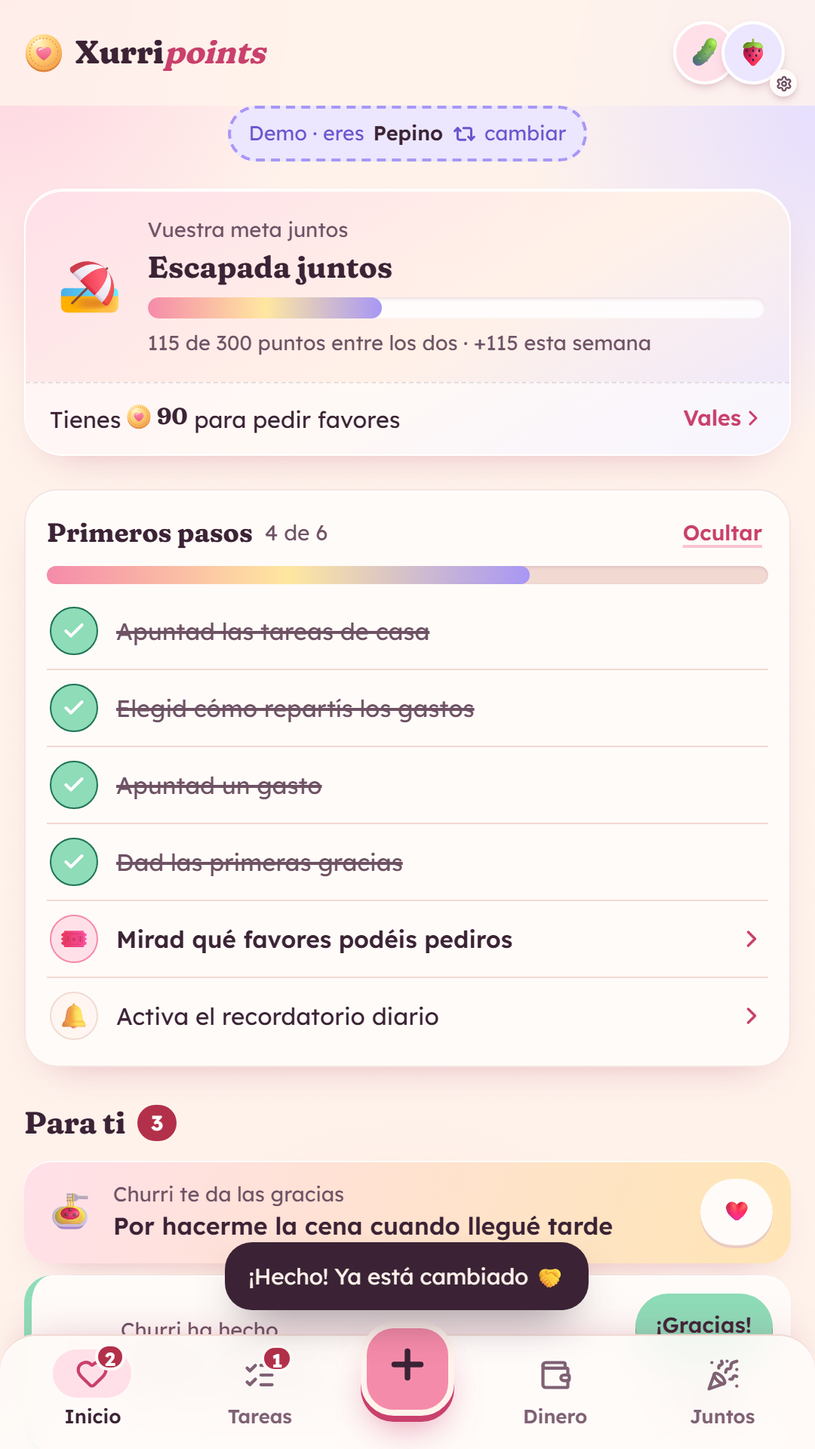
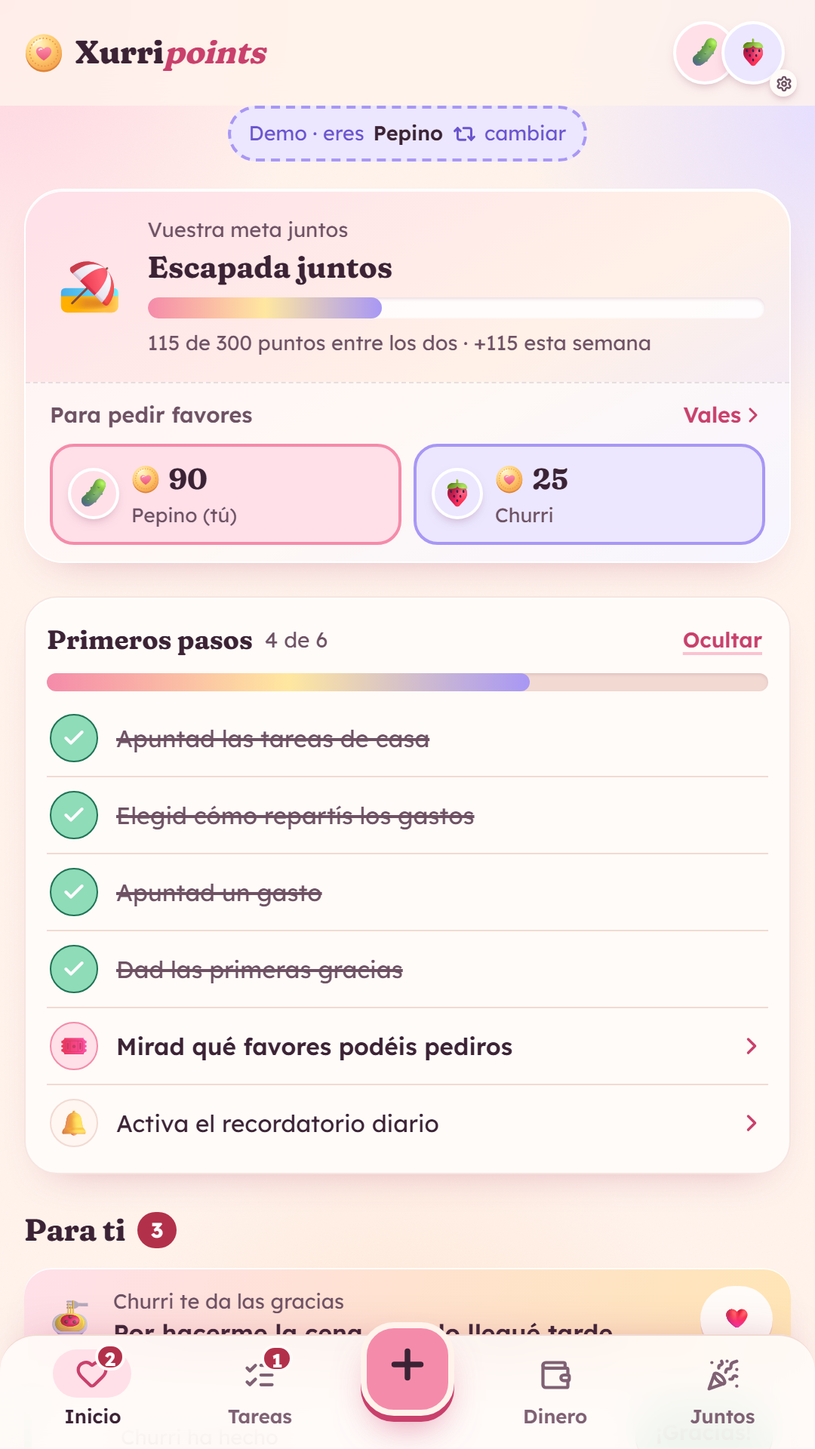
v0.16.0: version web para iPhone (misma app en Safari) y capturas de Play al dia

Changed region(s): [[0.0306, 0.2812, 0.9778, 0.9375]]

diff --git a/app/app.js b/app/app.js
@@ -9,7 +9,7 @@ import { THIS_OR_THAT, WHO_MORE, DIE_PIPS, THIS_OR_THAT_PLUS, WHO_MORE_PLUS, QUE
 import { CHANNEL } from './channel.js';
 import { iconoSvg } from './icons.js';
 
-const VERSION = '0.15.1';
+const VERSION = '0.16.0';
 const REPO = 'pepino17/xurripoints';
 /** Enlace permanente: siempre descarga el último APK publicado en GitHub Releases. */
 const APK_URL = `https://github.com/${REPO}/releases/latest/download/Xurripoints.apk`;
@@ -869,7 +869,8 @@ const STEP_INFO = {
 };
 function stepsCard() {
   if (lsGet('xp_steps_off')) return '';
-  const steps = L.firstSteps(S.data, ME(), { points: !noPoints(), notify: notifyHour() != null, sawVales: !!lsGet('xp_saw_vales') });
+  const steps = L.firstSteps(S.data, ME(), { points: !noPoints(), notify: notifyHour() != null, sawVales: !!lsGet('xp_saw_vales') })
+    .filter(s => s.id !== 'notify' || isNative());   // en la web no hay recordatorio (sin notificaciones locales)
   const done = steps.filter(s => s.done).length;
   if (done === steps.length) return '';
   const next = steps.find(s => !s.done);
@@ -1310,13 +1311,13 @@ function viewCouple() {
 
     <h2 class="h sm set-h">App</h2>
     <section class="card list">
-      ${row('notify-sheet', '🔔', 'Recordatorio diario', notifyHour() != null ? `Activado · a las ${notifyHour()}:00` : 'Desactivado')}
+      ${isNative() ? row('notify-sheet', '🔔', 'Recordatorio diario', notifyHour() != null ? `Activado · a las ${notifyHour()}:00` : 'Desactivado') : ''}
       ${row('theme-sheet', (THEMES.find(x => x[0] === curTheme()) || THEMES[0])[1], `Colores de la app ${plusTag()}`, `Fresa, Neutro y Oscuro gratis${isPlus() ? '' : ' · los otros 4 con Plus'}`)}
       <div class="set-row font-row"><span class="sr-ic">🔠</span><span class="sr-body"><b>Tamaño de letra</b><small>${(FONTS.find(x => x[0] === curFont()) || FONTS[0])[1]} · solo en este móvil</small></span>
         <span class="seg font-seg">${FONTS.map(([k, n, fs]) => `<button class="${k === curFont() ? 'on' : ''}" data-act="font-set" data-v="${k}" aria-label="Letra ${n.toLowerCase()}" aria-pressed="${k === curFont()}"><span style="font-size:${fs}">Aa</span></button>`).join('')}</span></div>
       ${row('share-app', '📲', 'Recomendar a otros', 'Envía el enlace de la app por WhatsApp', '', ic('share-2'))}
       ${row('legal-sheet', '🔒', 'Privacidad y condiciones', 'Qué datos se guardan y para qué')}
-      ${FROM_PLAY ? `<div class="set-row"><span class="sr-ic">✨</span><span class="sr-body"><b>Versión ${VERSION}</b><small>Se actualiza desde Google Play</small></span></div>`
+      ${FROM_PLAY || !isNative() ? `<div class="set-row"><span class="sr-ic">✨</span><span class="sr-body"><b>Versión ${VERSION}</b><small>${FROM_PLAY ? 'Se actualiza desde Google Play' : 'Estás en la versión web: siempre la última'}</small></span></div>`
         : row('check-update', '✨', `Versión ${VERSION}`, S.update && L.isNewer(S.update, VERSION) ? `Hay una nueva: ${esc(S.update)} · toca para descargarla` : 'Toca para buscar actualizaciones', '', ic('refresh-cw'))}
     </section>
 
@@ -1775,14 +1776,14 @@ function recurringSection() {
 
 /* ---------------- Actualizaciones (GitHub Releases) ---------------- */
 function updateBanner() {
-  if (FROM_PLAY || !S.update || !L.isNewer(S.update, VERSION)) return '';
+  if (FROM_PLAY || !isNative() || !S.update || !L.isNewer(S.update, VERSION)) return '';
   return `<button class="update-bar" data-act="open-url" data-url="${APK_URL}">${ic('sparkles')}
     <span><b>Hay una versión nueva (${esc(S.update)})</b><small>Toca para descargarla e instalarla encima</small></span>${ic('download')}</button>`;
 }
-/** Mira la última release publicada (como mucho cada 6 h, salvo que se fuerce). Solo dentro del APK. */
+/** Mira la última release publicada (como mucho cada 6 h, salvo que se fuerce). Solo dentro del APK de GitHub:
+    la web (iPhone) ya es siempre la última y no debe ofrecer un APK. */
 async function checkUpdate(force = false) {
-  if (FROM_PLAY) return null;
-  if (!isNative() && !force) return null;
+  if (FROM_PLAY || !isNative()) return null;
   if (!force && Date.now() - Number(lsGet('xp_upd_at') || 0) < 6 * 3600e3) { S.update = lsGet('xp_upd_v'); return S.update; }
   try {
     const r = await fetch(`https://api.github.com/repos/${REPO}/releases/latest`, { headers: { Accept: 'application/vnd.github+json' } });
@@ -3464,7 +3465,6 @@ function notifySheet() {
     <p class="muted">Un aviso al día con <b>lo que os toca</b> y lo que <b>espera tu respuesta</b>. Solo si hay algo: si no, no molesta.</p>
     <div class="field"><span>¿A qué hora?</span>
       <div class="chips" id="nt-hour">${[9, 14, 19, 20, 21, 22].map(x => `<button type="button" class="chip ${(h ?? 20) === x ? 'on' : ''}" data-act="pick" data-v="${x}">${x}:00</button>`).join('')}</div></div>
-    ${isNative() ? '' : `<p class="warn">Los avisos funcionan en la app de Android (aquí, en el navegador, no suenan).</p>`}
     <p class="muted small">Sin servidor: el móvil programa los avisos de los próximos días cada vez que abres la app.</p>
     <div class="stack"><button class="btn primary big" data-act="notify-save">${h != null ? 'Guardar' : 'Activar'}</button>
       ${h != null ? `<button class="btn" data-act="notify-off">Desactivar</button>` : ''}</div>`;

diff --git a/app/styles.css b/app/styles.css
@@ -37,6 +37,7 @@ html { -webkit-text-size-adjust: 100%; }
 body {
   margin: 0;
   min-height: 100vh;
+  min-height: 100dvh;                  /* Safari de iPhone: 100vh cuenta la barra de abajo escondida y sobra scroll */
   font: 400 1rem/1.45 var(--body);   /* en rem: así «Tamaño de letra» (data-font en el html) lo escala todo */
   color: var(--ink);
   background: var(--bg);
@@ -207,6 +208,7 @@ input[type="range"] { width: 100%; accent-color: var(--a-deep); height: 32px; }
   position: sticky; top: 0; z-index: 20;
   display: flex; align-items: center; justify-content: space-between;
   padding: calc(10px + var(--safe-t)) 16px 10px;
+  background: var(--bg);   /* iPhone con iOS < 16.2 (sin color-mix): opaco, para que no se transparente */
   background: color-mix(in srgb, var(--bg) 82%, transparent);
   backdrop-filter: blur(12px); -webkit-backdrop-filter: blur(12px);
 }
@@ -230,6 +232,7 @@ input[type="range"] { width: 100%; accent-color: var(--a-deep); height: 32px; }
   position: fixed; left: 0; right: 0; bottom: 0; z-index: 30;
   display: flex; justify-content: space-around; align-items: stretch;
   padding: 6px 6px calc(8px + var(--safe-b));
+  background: var(--card);   /* igual que .top: sin color-mix, opaco */
   background: color-mix(in srgb, var(--card) 88%, transparent);
   backdrop-filter: blur(14px); -webkit-backdrop-filter: blur(14px);
   border-top: 1.5px solid var(--line);
@@ -479,7 +482,7 @@ button.set-row { cursor: pointer; }
 .set-row > .lucide { color: var(--ink-3); }
 
 /* ---------------- Entrar / emparejar ---------------- */
-.auth { min-height: 100vh; max-width: 460px; margin: 0 auto; padding: calc(28px + var(--safe-t)) 22px calc(28px + var(--safe-b)); display: flex; flex-direction: column; justify-content: center; text-align: center; }
+.auth { min-height: 100vh; min-height: 100dvh; max-width: 460px; margin: 0 auto; padding: calc(28px + var(--safe-t)) 22px calc(28px + var(--safe-b)); display: flex; flex-direction: column; justify-content: center; text-align: center; }
 .auth.form { text-align: left; justify-content: flex-start; padding-top: calc(20px + var(--safe-t)); }
 .auth.form .big-coin { margin: 8px 0 4px; }
 .auth .back { position: absolute; top: calc(14px + var(--safe-t)); left: 14px; }
@@ -503,7 +506,7 @@ button.set-row { cursor: pointer; }
 .orbit span:nth-child(3) { bottom: 0; left: 44%; }
 .orbit span:nth-child(4) { top: 44%; left: -4px; }
 @keyframes orbit { to { transform: rotate(360deg); } }
-.center-screen { min-height: 100vh; display: flex; flex-direction: column; align-items: center; justify-content: center; gap: 6px; }
+.center-screen { min-height: 100vh; min-height: 100dvh; display: flex; flex-direction: column; align-items: center; justify-content: center; gap: 6px; }
 .pair-actions { display: flex; flex-direction: column; gap: 12px; margin-top: 20px; }
 .or { display: flex; align-items: center; gap: 10px; color: var(--ink-3); font-size: .85rem; }
 .or::before, .or::after { content: ''; flex: 1; height: 2px; background: var(--line); border-radius: 2px; }

diff --git a/docs/index.html b/docs/index.html
@@ -26,9 +26,11 @@
           casa —pareja, a distancia, <b>compañeros de piso</b> o familia— y quiere organizarse <b>sin llevar la cuenta</b>.</p>
         <div class="btns">
           <a class="btn primary" href="https://github.com/pepino17/xurripoints/releases/latest/download/Xurripoints.apk">📲 Descargar para Android</a>
+          <a class="btn" href="app/">🍏 Abrir en el navegador (iPhone)</a>
           <a class="btn" href="#empezar">¿Cómo empezar?</a>
         </div>
-        <p class="small">Gratis y sin anuncios · Pronto en Google Play · iPhone: más adelante</p>
+        <p class="small">Gratis y sin anuncios · Pronto en Google Play</p>
+        <p class="small">En iPhone: ábrela en Safari, toca <b>Compartir → Añadir a pantalla de inicio</b> y entra desde ese icono.</p>
       </div>
       <div class="phone" aria-hidden="true">
         <div class="ph-card"><small>Vuestra meta juntos</small><b>🏖 Escapada juntos</b><span class="bar"><i></i></span><small>310 de 500 puntos entre los dos</small></div>
@@ -64,7 +66,7 @@
     <section id="empezar">
       <h2>Cómo empezar</h2>
       <ol class="steps">
-        <li><span>Descarga la app en tu Android (si el móvil lo pide, permite instalar desde el navegador).</span></li>
+        <li><span>Descarga la app en tu Android (si el móvil lo pide, permite instalar desde el navegador) o, en iPhone, <a href="app/">ábrela en Safari</a> y añádela a la pantalla de inicio.</span></li>
         <li><span>Crea tu cuenta, pon tu nombre o mote y crea vuestra pareja.</span></li>
         <li><span>Envía el código de 8 letras a tu pareja: se une desde su móvil y listo 💞</span></li>
       </ol>
@@ -76,7 +78,7 @@
       <div class="plans">
         <div class="plan">
           <h3>Gratis</h3><div class="price">0 €</div>
-          <ul><li>Tareas, gastos, ahorro, gracias, planes y juegos</li><li>Puntos, vales y meta juntos</li><li>Recordatorio diario</li><li>Descargar una copia de vuestros datos</li><li>Sin anuncios, nunca</li></ul>
+          <ul><li>Tareas, gastos, ahorro, gracias, planes y juegos</li><li>Puntos, vales y meta juntos</li><li>Recordatorio diario (en Android)</li><li>Descargar una copia de vuestros datos</li><li>Sin anuncios, nunca</li></ul>
         </div>
         <div class="plan plus">
           <h3>Plus <span class="tag">para los dos</span></h3><div class="price">1,67 €<small class="small"> /mes</small></div>

diff --git a/app/native.js b/app/native.js
@@ -1,6 +1,6 @@
 /* ================================================================
    Xurripoints — capa nativa (Capacitor). SOLO actúa dentro de la app Android;
-   en el navegador no hace nada.
+   en el navegador (versión web) solo se niega a pintarse dentro de un marco ajeno.
    - Barra de estado del color de la app: iconos oscuros, o claros con el tema oscuro.
    - Botón ATRÁS físico: cierra la hoja abierta / vuelve a Inicio; solo desde Inicio sale.
    ================================================================ */
@@ -8,6 +8,9 @@
   'use strict';
   function isNative() { return !!(window.Capacitor && Capacitor.isNativePlatform && Capacitor.isNativePlatform()); }
   function P(name) { return (window.Capacitor && Capacitor.Plugins && Capacitor.Plugins[name]) || null; }
+  // Web: GitHub Pages no deja poner `frame-ancestors` (y en <meta> no vale). Dentro de un <iframe> de otra web,
+  // nada se ve ni se puede tocar: así no pueden engañar con clics encima de la app.
+  if (window.top !== window.self) document.documentElement.hidden = true;
   if (!isNative()) return;
   document.documentElement.classList.add('native');
 

diff --git a/docs/privacidad.html b/docs/privacidad.html
@@ -48,7 +48,7 @@
       <li><b>Google (Firebase / Google Cloud)</b> guarda los datos como encargado del tratamiento, en servidores de la Unión
         Europea. Algunos servicios de Google, como el inicio de sesión, pueden tratar datos fuera de la UE con las garantías
         del Marco de Privacidad de Datos UE-EE. UU. y las cláusulas contractuales tipo.</li>
-      <li><b>GitHub</b> sirve la descarga de la app y la comprobación de versiones nuevas (recibe tu IP, como cualquier web).</li>
+      <li><b>GitHub</b> sirve la descarga de la app, la versión web (para iPhone) y la comprobación de versiones nuevas (recibe tu IP, como cualquier web).</li>
       <li><b>Google Play</b>, si compras Plus, gestiona el pago según su propia política.</li>
       <li><b>Google Calendar</b>, solo si tocas «A mi Google Calendar»: se abre Google Calendar con el nombre y la fecha de
         esa tarea en el enlace, y eres tú quien decide si lo guarda en tu cuenta de Google. La app no se conecta a tu

diff --git a/app/index.html b/app/index.html
@@ -13,6 +13,11 @@
   <title>Xurripoints</title>
   <link rel="icon" href="icon.svg" />
   <link rel="manifest" href="manifest.webmanifest" />
+  <!-- Versión web (iPhone): «Añadir a pantalla de inicio» la abre a pantalla completa. Dentro del APK no hacen nada. -->
+  <link rel="apple-touch-icon" href="apple-touch-icon.png" />
+  <meta name="apple-mobile-web-app-capable" content="yes" />
+  <meta name="mobile-web-app-capable" content="yes" />
+  <meta name="apple-mobile-web-app-status-bar-style" content="default" />
   <!-- Cuando haya Firebase configurado, esto ahorra una ida y vuelta antes del primer dato. -->
   <link rel="preconnect" href="https://firestore.googleapis.com" crossorigin />
   <link rel="preconnect" href="https://identitytoolkit.googleapis.com" crossorigin />

diff --git a/app/store.js b/app/store.js
@@ -56,7 +56,10 @@ async function limpiarIndexedDb({ todo = false } = {}) {
     const nombres = indexedDB.databases
       ? (await indexedDB.databases()).map(d => d.name).filter(Boolean)
       : ['firebaseLocalStorageDb', 'firestore/[DEFAULT]/xurripoints/main'];
+    // En la web, el origen (pepino17.github.io) lo comparten todas las webs de GitHub Pages de la cuenta: solo lo nuestro.
+    const nativo = !!(globalThis.Capacitor && Capacitor.isNativePlatform && Capacitor.isNativePlatform());
     await Promise.all(nombres
+      .filter(n => nativo || /^firebase|xurripoints/.test(n))
       .filter(n => todo || !/firebaseLocalStorageDb/.test(n))
       .map(n => new Promise(res => {
         const r = indexedDB.deleteDatabase(n);

diff --git a/CONTEXTO.md b/CONTEXTO.md
@@ -1,7 +1,7 @@
 # CONTEXTO — léeme primero (handoff completo)
 
 > Con este documento + `COMO_TRABAJAR.md` + `docs/` deberías poder continuar el proyecto sin la conversación.
-> Última actualización: **2026-11-12** (v0.15.1).
+> Última actualización: **2026-11-12** (v0.16.0).
 
 ## Qué es
 **Xurripoints**: app Android para parejas para **organizarse en equipo sin llevar la cuenta**: tareas, gastos
@@ -59,6 +59,17 @@ gasta en **vales = favores** (nunca permisos). Los puntos se pueden pausar.
   - **Google Play**: `.aab` firmado en cada release (canal `'play'`, sin avisos de APK), web con **privacidad, condiciones
     y borrar cuenta**, enlaces legales en la app, **descargar una copia** (JSON, gratis).
   - 26 pruebas de lógica + pruebas de reglas de Plus. Verificado en navegador (demo).
+- **v0.16.0 (2026-11-12)**: **versión web para iPhone**. La misma `app/` en https://pepino17.github.io/xurripoints/app/
+  (Safari → Compartir → «Añadir a pantalla de inicio»), montada por `.github/workflows/pages.yml` (docs/ en la raíz +
+  app/ en `/app/`; en git no se duplica nada). Web = `!Capacitor.isNativePlatform()` (sin canal nuevo; `channel.js`
+  sigue en `'github'`): sin recordatorio diario, sin avisos ni enlaces de APK, «Estás en la versión web» en Pareja → App.
+  Iconos PNG 180/192/512 en `app/` (de `scripts/make-assets.mjs`), metas de Apple, no se deja meter en un `<iframe>`
+  y la limpieza al salir/borrar solo toca las bases de Firebase/Xurripoints (el origen `pepino17.github.io` es compartido).
+  **⚠ PASO PENDIENTE (Joan, en GitHub):** Settings → Pages → Build and deployment → Source: **GitHub Actions**.
+  Hasta entonces Pages sigue publicando `docs/` de `main` como siempre («Deploy from a branch»), `/app/` da 404 y el
+  workflow «Web (GitHub Pages)» sale en rojo al publicar (es lo esperado). Después: Actions → «Web (GitHub Pages)» →
+  Run workflow (o cualquier push que toque `docs/` o `app/`). Mínimo iOS 15.4 (`structuredClone`, `dvh`).
+  En iPhone, la app de la pantalla de inicio guarda aparte de Safari: hay que entrar con la cuenta otra vez.
 - **v0.15.1 (2026-11-12)**: ronda «seguridad sin servidor». **CSP** en `app/index.html` (scripts/estilos/fuentes
   propios, red solo a Firestore, Identity, Secure Token y `api.github.com`; solo se permiten atributos `style="…"`) ·
   **reglas**: crear pareja solo con código de 6 u 8 `[A-Z0-9]` (solo al crear) y topes holgados a textos que se pintan
@@ -120,8 +131,10 @@ gasta en **vales = favores** (nunca permisos). Los puntos se pueden pausar.
   - 31 pruebas de lógica + 4 nuevas de reglas. Verificado en navegador (demo) sin errores de consola.
 - **Descarga (siempre la última):** https://github.com/pepino17/xurripoints/releases/latest/download/Xurripoints.apk
   (botón + QR en el README). Repo **público** para que los testers puedan descargar.
-- **Web:** https://pepino17.github.io/xurripoints/ (GitHub Pages desde `docs/`, sin Jekyll: `.nojekyll`).
-- **Pendiente de Joan:** probar con **los dos móviles** de verdad (crear cuentas, emparejar, salir de la pareja y
+- **Web:** https://pepino17.github.io/xurripoints/ (GitHub Pages desde `docs/`, sin Jekyll: `.nojekyll`). Desde v0.16 la
+  publica `pages.yml` con la app en `/app/` (**versión web para iPhone**), en cuanto Pages esté en «GitHub Actions».
+- **Pendiente de Joan:** **Settings → Pages → Source: GitHub Actions** (v0.16, para que salga la versión web) y probarla
+  en un iPhone de verdad. Probar con **los dos móviles** de verdad (crear cuentas, emparejar, salir de la pareja y
   borrar cuenta: hasta la v0.13 solo se habían probado con la demo y el emulador de reglas).
   Para vender: **email de contacto** (hoy la web manda a GitHub Issues) y **Play Console** (`docs/PLAY_STORE.md`).
 - Repo: `pepino17/xurripoints` (público). Cada release publica `Xurripoints-vX.Y.Z.apk` y `Xurripoints.apk` (nombre fijo).
@@ -136,7 +149,8 @@ app/                  ← la web que empaqueta Capacitor (sin bundler, ES module
   content.js          textos de los juegos (+ cartas y packs de preguntas de Plus)
   channel.js          'github' (APK) o 'play' (lo pone Actions para el .aab; en git siempre 'github', lo comprueba la prueba)
   firebase-config.js  config de la web app de Firebase (no es secreta)
-  native.js           Capacitor: barra de estado, botón atrás y notificaciones locales
+  native.js           Capacitor: barra de estado, botón atrás y notificaciones locales (en la web: no pintarse en un iframe)
+  manifest.webmanifest + apple-touch-icon.png, icon-192/512.png   versión web instalable (iPhone); el APK no los usa
   vendor/firebase.js  SDK de Firebase empaquetado con esbuild (npm run build ← src/firebase.js)
   vendor/lucide.min.js iconos (lucide 0.544)
   fonts/ fonts.css    Fraunces (títulos y números) + Lexend (texto), locales
@@ -147,6 +161,7 @@ firestore.rules       reglas de seguridad (pegar en la consola de Firebase)
 tests/logic.test.mjs  pruebas de la lógica + versión igual en los 3 sitios
 tests/rules.test.mjs  pruebas de las reglas (emulador; corre en .github/workflows/rules.yml)
 .github/workflows/android.yml  compila el APK (release firmado) y lo publica en Releases
+.github/workflows/pages.yml    publica la web: docs/ + app/ en /app/ (requiere Pages → Source: GitHub Actions)
 ```
 
 ## Pantallas (v0.9)

diff --git a/CHANGELOG.md b/CHANGELOG.md
@@ -5,6 +5,30 @@ La versión de la primera línea `[x.y.z]` es la que usa el APK (GitHub Actions)
 **La versión tiene que ser la misma aquí, en `package.json` y en `VERSION` de `app/app.js`** (la prueba
 `node tests/logic.test.mjs` falla si no, y entonces el APK no se publica).
 
+## [0.16.0] — 2026-11-12 · Versión web para iPhone
+
+La MISMA app de `app/` se abre en Safari en https://pepino17.github.io/xurripoints/app/ y se puede añadir a la
+pantalla de inicio. En git no se duplica nada: un workflow nuevo monta el sitio al publicar.
+
+- 🍏 **Workflow `pages.yml`**: con cada push a `main` que toque `docs/**` o `app/**` (o a mano) monta `docs/` en la
+  raíz + `app/` en `/app/` y lo publica con las acciones oficiales de Pages. **Falta un paso de Joan**: Settings →
+  Pages → Source: **GitHub Actions** (hasta entonces `docs/` se publica como siempre y este workflow falla al publicar).
+- 📲 **Instalable en iPhone**: iconos PNG 180/192/512 (cuadrados y opacos, con `scripts/make-assets.mjs`), manifest
+  con ellos y metas de Apple (`apple-touch-icon`, pantalla completa, barra de estado). Dentro del APK no cambian nada.
+- 🌐 **Sin nativo, sin sustos** (se sabe con `Capacitor.isNativePlatform`, sin canal nuevo): en la web no se ofrece
+  el recordatorio diario (ni en Pareja → App ni en Primeros pasos), no se buscan APKs nuevos ni se enlazan, y en
+  Pareja → App la versión dice «Estás en la versión web: siempre la última». Descargar la copia y el Excel bajan el
+  archivo como en el navegador.
+- 🛡 **Web más segura**: no se pinta dentro de un `<iframe>` de otra web (GitHub Pages no deja `frame-ancestors`) y,
+  al salir o borrar la cuenta en la web, solo se borran las bases de datos del navegador de Firebase/Xurripoints
+  (el origen `pepino17.github.io` lo comparten todas las webs de la cuenta).
+- 🎨 Safari de iPhone: `100dvh` (sin scroll de más en la entrada) y cabecera y barra opacas si el iPhone no sabe
+  `color-mix` (iOS < 16.2).
+- 🌍 Web pública: botón **«Abrir en el navegador (iPhone)»** con cómo añadirla a la pantalla de inicio; la privacidad
+  cuenta que GitHub sirve también la versión web.
+- `scripts/make-play-screenshots.mjs` hace las capturas como la app de Android (si no, salían las de la web).
+  Sin cambios en Firestore ni en las reglas.
+
 ## [0.15.1] — 2026-11-12 · Seguridad sin servidor
 
 Ronda de repaso de `firestore.rules`, `store.js`, `index.html` y cómo se pintan los datos, cerrando lo que se puede

diff --git a/README.md b/README.md
@@ -14,6 +14,8 @@ Este botón **siempre descarga la última versión**. Enlace para compartir:<br>
 <img src="https://api.qrserver.com/v1/create-qr-code/?size=160x160&margin=8&data=https%3A%2F%2Fgithub.com%2Fpepino17%2Fxurripoints%2Freleases%2Flatest%2Fdownload%2FXurripoints.apk" width="160" alt="QR para descargar la app" /><br>
 <sub>Escanéalo con el móvil para descargarla.</sub>
 
+**¿iPhone?** Ábrela en Safari: **https://pepino17.github.io/xurripoints/app/** y toca Compartir → «Añadir a pantalla de inicio».
+
 </div>
 
 ## Qué hace
@@ -39,6 +41,11 @@ Web: **https://pepino17.github.io/xurripoints/** · [Privacidad](https://pepino1
 2. Abre el archivo `Xurripoints.apk`. Si pregunta, permite **"instalar apps de origen desconocido"** para el navegador.
 3. Las versiones nuevas se instalan **encima** (sin desinstalar). La app avisa cuando hay una.
 
+## Usar en iPhone (versión web)
+1. Abre **https://pepino17.github.io/xurripoints/app/** en Safari.
+2. Compartir → **«Añadir a pantalla de inicio»** y entra desde ese icono con tu cuenta (la misma app y la misma cuenta).
+3. Se actualiza sola. Lo único que no tiene es el recordatorio diario (en el navegador no hay avisos locales).
+
 Sin Firebase configurado arranca en **modo demo** (todo en el móvil, puedes hacer de los dos).
 Para sincronizar dos móviles: [`docs/FIREBASE.md`](docs/FIREBASE.md).
 
@@ -50,7 +57,7 @@ python -m http.server 5173 --directory app       # probar en el navegador
 npm run sync                                     # empaqueta Firebase + copia la web a android/
 ```
 Cada push a `main` compila el APK (release firmado) y el `.aab` para Google Play en GitHub Actions y los publica en Releases.
-La web pública sale de la carpeta [`docs/`](docs/) (GitHub Pages). Negocio y tienda: [`docs/MONETIZACION.md`](docs/MONETIZACION.md) · [`docs/PLAY_STORE.md`](docs/PLAY_STORE.md).
+La web pública sale de [`docs/`](docs/) y la versión web de `app/` va en `/app/`, las dos con GitHub Pages (`.github/workflows/pages.yml`). Negocio y tienda: [`docs/MONETIZACION.md`](docs/MONETIZACION.md) · [`docs/PLAY_STORE.md`](docs/PLAY_STORE.md).
 Las reglas de Firestore y `app/store.js` se prueban con los emuladores de Firebase en Actions (`tests/rules.test.mjs`, `tests/store.test.mjs`).
 
 Diseñada con criterio de psicología de pareja para que **sume y no lleve la cuenta**: [`docs/PSICOLOGIA.md`](docs/PSICOLOGIA.md).

diff --git a/docs/IDEAS.md b/docs/IDEAS.md
@@ -8,7 +8,9 @@ Todo lo que se le ocurra a Joan, aunque sea para el futuro. Lo hecho se tacha y 
   `proposals` y `log` (requiere Firebase conectado y plan Blaze, de pago por uso; con una pareja ≈ 0 €).
 - ~~**Recordatorios locales** de tareas del día~~ → hecho en v0.6.0.
 - ~~**Gastos fijos** que se repiten~~ → hecho en v0.2.0.
-- **Versión web** en GitHub Pages para testers con iPhone (misma app, en Safari). (La web pública ya existe desde v0.8: `docs/`.)
+- ~~**Versión web** en GitHub Pages para testers con iPhone (misma app, en Safari)~~ → hecho en **v0.16.0** (2026-11-12):
+  `/app/` de la web, instalable con «Añadir a pantalla de inicio». Falta poner Pages en «GitHub Actions» (`CONTEXTO.md`).
+  Sin recordatorio diario en la web (no hay notificaciones locales; con Web Push en iOS 16.4+ haría falta servidor).
 - ~~Borrar mi cuenta / salir de la pareja~~ → hecho en v0.7.0 (quien se queda conserva lo común).
 - ~~Exportar una copia de vuestros datos (JSON/CSV)~~ → hecho en v0.8.0 (JSON gratis; gastos a Excel, Plus).
 
@@ -144,6 +146,10 @@ Todo lo que se le ocurra a Joan, aunque sea para el futuro. Lo hecho se tacha y 
   servidor, pero hay que revisar antes cada escritura de la app (y la demo no avisaría si se rompe).
 - **CSP en cabecera HTTP** (`frame-ancestors`, informes de violaciones): en `<meta>` no existe y dentro del APK no hay
   servidor. Solo haría falta si la app se sirve como web (GitHub Pages no deja poner cabeceras).
+  → Desde **v0.16.0** se sirve como web: `native.js` no se pinta dentro de un `<iframe>` (sustituye a `frame-ancestors`).
+- **Origen compartido en la web** (v0.16.0): `pepino17.github.io` es el mismo origen para TODAS las webs de Pages de la
+  cuenta, así que cualquiera de ellas podría leer el `localStorage`/IndexedDB de Xurripoints (sesión de Firebase incluida).
+  Hoy solo importa si otra web de la cuenta tuviera un fallo. Arreglo de verdad: un dominio propio para la web.
 
 ## Deuda técnica (revisión externa 2026-10-14)
 > Lo que el revisor señaló y **no** entra en la v0.9.0. Ninguno bloquea; están ordenados por lo que más duele.- **`app/app.js` son 3.113 líneas (210 KB)**: partir en `ui.js`, `sheets.js`, `state.js` y `views/` (home, points, tasks,
